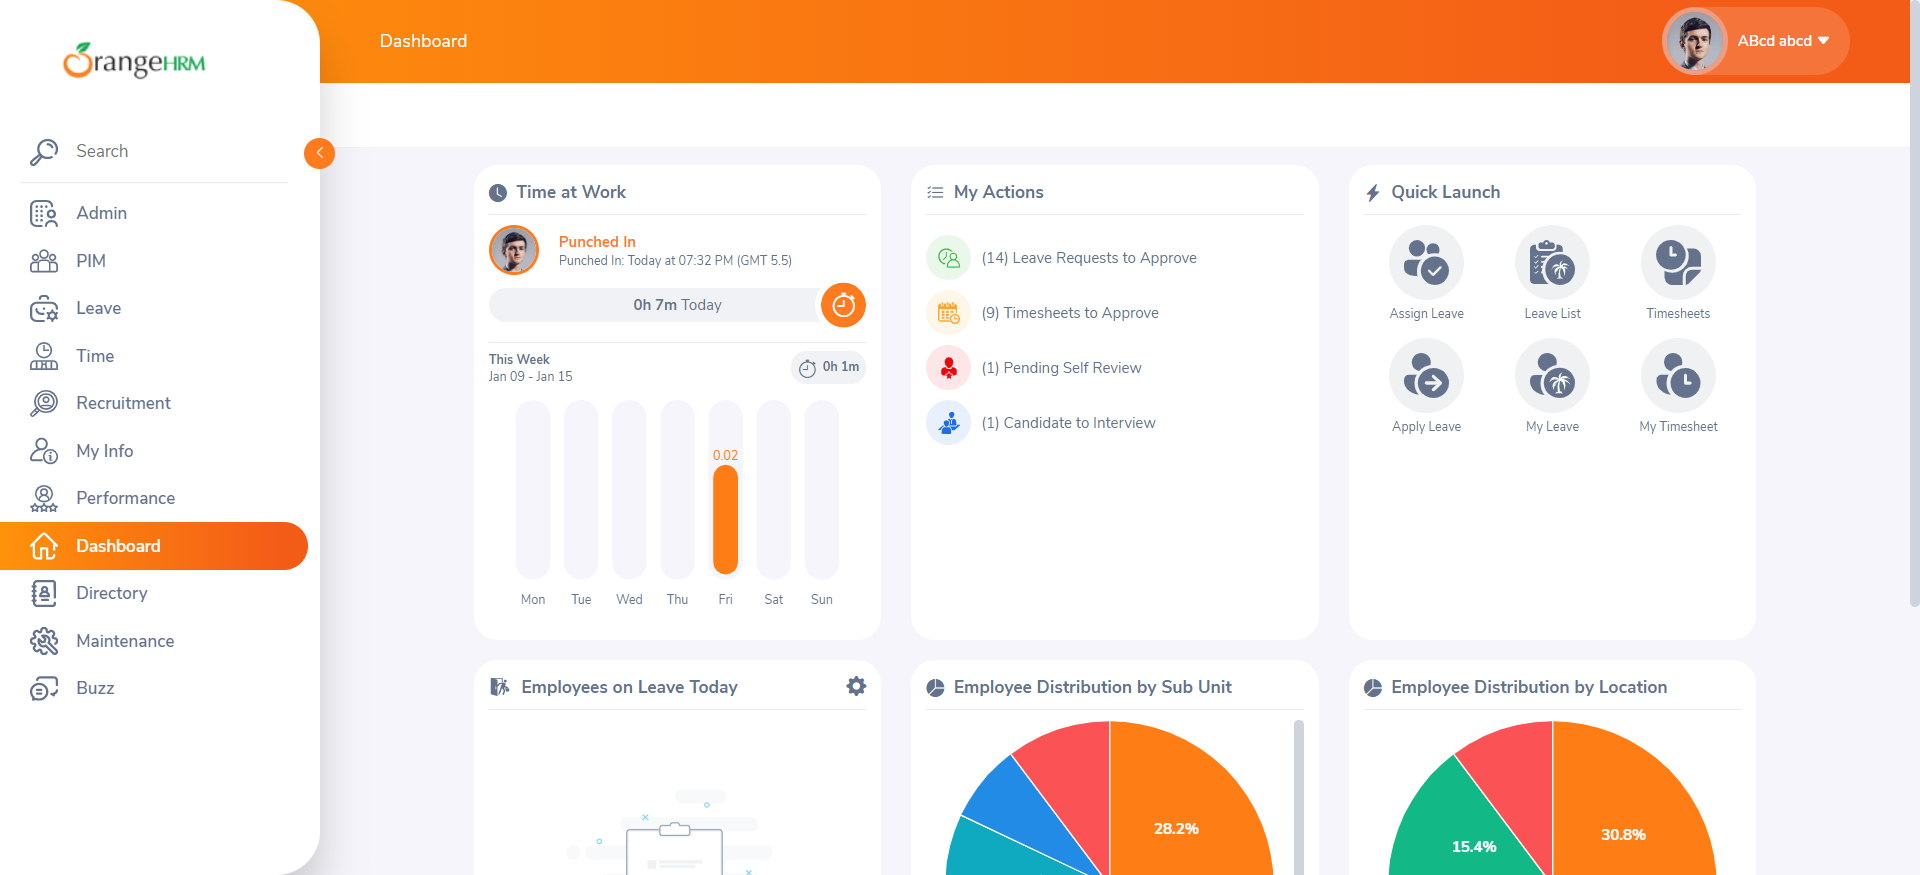
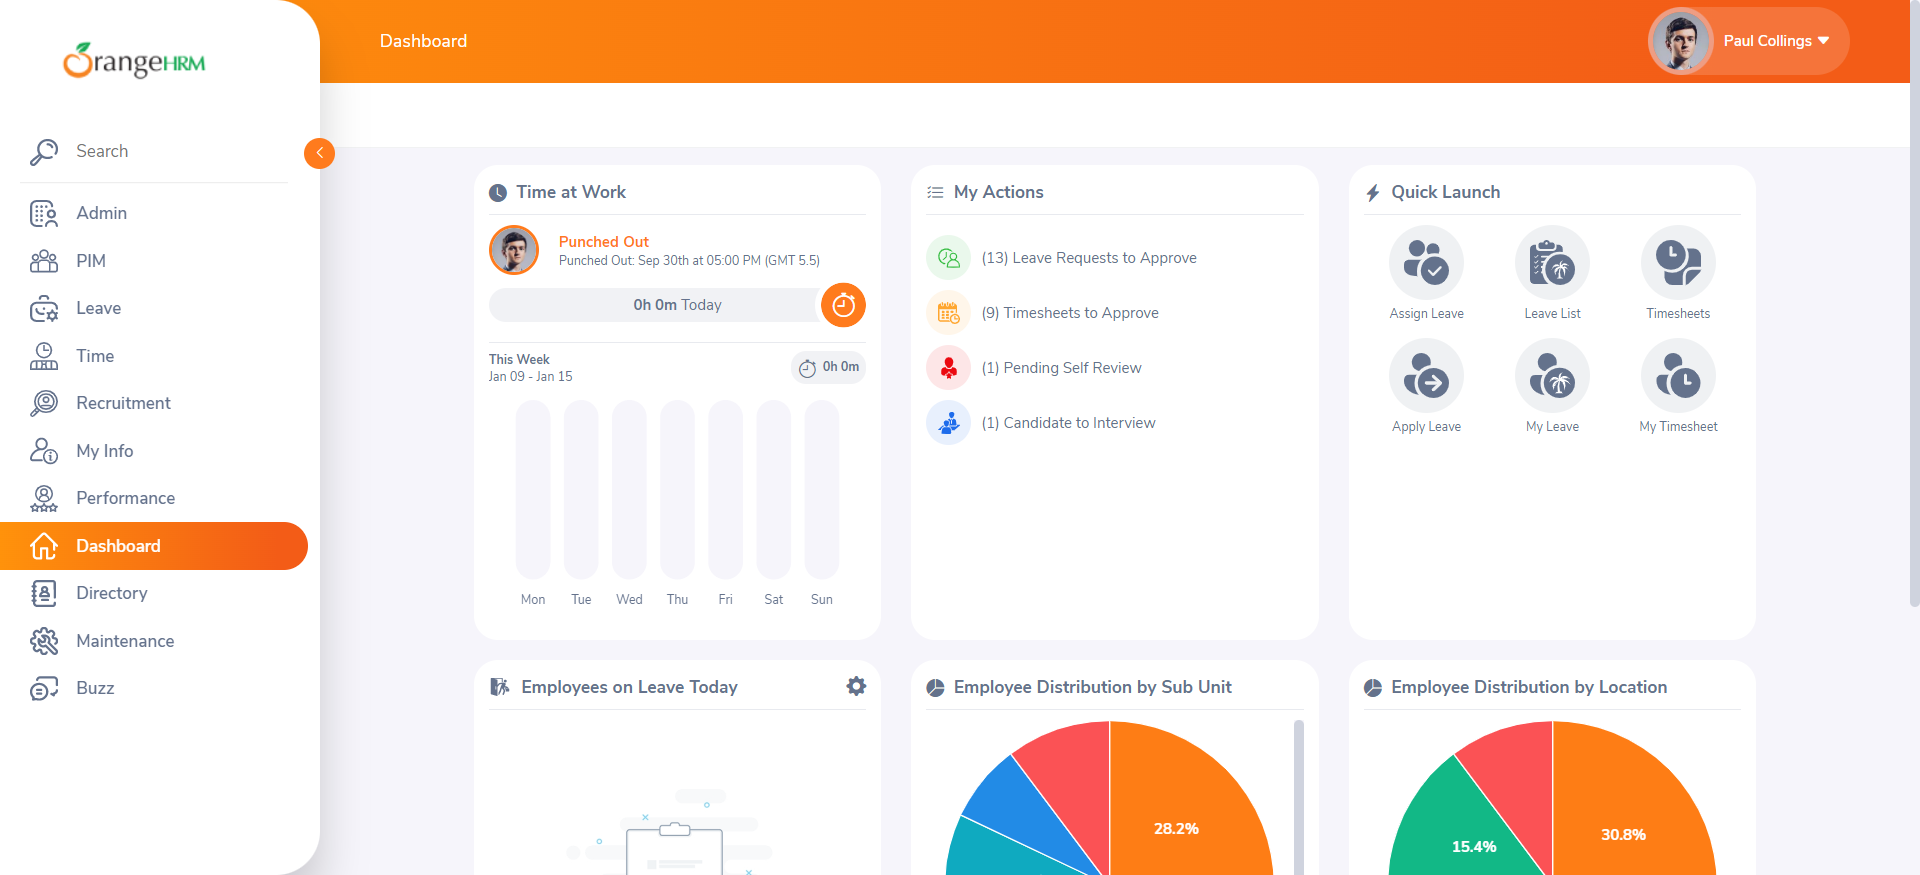
Fix problem java

Changed region(s): [[0.8438, 0.0, 0.9375, 0.0926], [0.3438, 0.5246, 0.4062, 0.648], [0.3125, 0.2777, 0.4375, 0.3086]]

diff --git a/target/extent-reports/ExtentReport.html b/target/extent-reports/ExtentReport.html
@@ -52,7 +52,7 @@
 		<ul id='nav-mobile' class='right hide-on-med-and-down nav-right'>
 			<li>
                 <a href='#!'>
-                    <span class='label suite-start-time blue darken-3'>Jan 13, 2023 03:30:12 PM</span>
+                    <span class='label suite-start-time blue darken-3'>Jan 15, 2023 03:22:28 PM</span>
 				</a>
 			</li>
 			<li>
@@ -189,7 +189,7 @@
 				<li class='test displayed active has-leaf pass' status='pass' bdd='true' test-id='1'>
 					<div class='test-heading'>
 						<span class='test-name'>Authentication - OrangeHRM</span>
-						<span class='test-time'>Jan 13, 2023 03:30:12 PM</span>
+						<span class='test-time'>Jan 15, 2023 03:22:28 PM</span>
 						<span class='test-status right pass'>pass</span>
 					</div>
 					<div class='test-content hide'>
@@ -197,7 +197,7 @@
 	<div class='category-list'>
 		<span class='category label white-text'>@cnx</span>
 	</div>
-	<span class='duration right label'>0h 0m 18s+797ms</span>
+	<span class='duration right label'>0h 0m 29s+893ms</span>
 	<div class='desc'>
 		<b>Scenario</b>
 		<span class="desc-text">Authentication - OrangeHRM</span>
@@ -239,7 +239,7 @@
 			
 			<b>Then</b>
 			
-			<span class="bdd-step-name">Then Je me redirige vers le compte admin "ABcd abcd"</span>
+			<span class="bdd-step-name">Then Je me redirige vers le compte admin "Paul"</span>
 				<div class='pre'>passed</div>
 			
 		</li>
@@ -322,7 +322,7 @@
 								</thead>
 								<tbody>
 									<tr>
-										<td>Jan 13, 2023 03:30:12 PM</td>
+										<td>Jan 15, 2023 03:22:28 PM</td>
 										<td class='linked' test-id='1'>Authentication - OrangeHRM</td>
 										<td><span class='test-status pass'>pass</span></td>
 									</tr>
@@ -356,7 +356,7 @@
 								</thead>
 								<tbody>
 									<tr>
-										<td>Jan 13, 2023 03:30:12 PM</td>
+										<td>Jan 15, 2023 03:22:28 PM</td>
 										<td class='linked' test-id='2'>Authentication - OrangeHRM.Authentication - OrangeHRM</td>
 										<td><span class='test-status pass'>pass</span></td>
 									</tr>
@@ -404,19 +404,19 @@
 			<div class='col s2'>
 				<div class='card-panel r'>
 					Start
-					<div class='panel-lead'>Jan 13, 2023 03:30:12 PM</div>
+					<div class='panel-lead'>Jan 15, 2023 03:22:28 PM</div>
 				</div>
 			</div>
 			<div class='col s2'>
 				<div class='card-panel r'>
 			 		End
-			 		<div class='panel-lead'>Jan 13, 2023 03:30:31 PM</div>
+			 		<div class='panel-lead'>Jan 15, 2023 03:22:58 PM</div>
 				</div>
 			</div>
 			<div class='col s2'>
 				<div class='card-panel r'>
 					Time Taken
-					<div class='panel-lead'>0h 0m 18s+966ms</div>
+					<div class='panel-lead'>0h 0m 30s+46ms</div>
 				</div>
 			</div>
 			<div class='col s6'>

diff --git a/target/cucumber-report/report.js b/target/cucumber-report/report.js
@@ -13,7 +13,7 @@ formatter.feature({
   ]
 });
 formatter.before({
-  "duration": 2222337500,
+  "duration": 2175249900,
   "status": "passed"
 });
 formatter.scenario({
@@ -52,14 +52,14 @@ formatter.step({
 });
 formatter.step({
   "line": 11,
-  "name": "Je me redirige vers le compte admin \"ABcd abcd\"",
+  "name": "Je me redirige vers le compte admin \"Paul\"",
   "keyword": "Then "
 });
 formatter.match({
   "location": "AuthenticationStepDefinitions.jeMeConnecteÀLApplicationOrangeHRM()"
 });
 formatter.result({
-  "duration": 11305072000,
+  "duration": 22416243600,
   "status": "passed"
 });
 formatter.match({
@@ -72,7 +72,7 @@ formatter.match({
   "location": "AuthenticationStepDefinitions.jeSaisieUsername(String)"
 });
 formatter.result({
-  "duration": 80611700,
+  "duration": 82047200,
   "status": "passed"
 });
 formatter.match({
@@ -85,31 +85,31 @@ formatter.match({
   "location": "AuthenticationStepDefinitions.jeSaisiePassword(String)"
 });
 formatter.result({
-  "duration": 73229100,
+  "duration": 82966300,
   "status": "passed"
 });
 formatter.match({
   "location": "AuthenticationStepDefinitions.jeCliqueSurLeBouttonLogin()"
 });
 formatter.result({
-  "duration": 35645600,
+  "duration": 38290600,
   "status": "passed"
 });
 formatter.match({
   "arguments": [
     {
-      "val": "ABcd abcd",
+      "val": "Paul",
       "offset": 37
     }
   ],
   "location": "AuthenticationStepDefinitions.jeMeRedirigeVersLeCompteAdmin(String)"
 });
 formatter.result({
-  "duration": 5025174300,
+  "duration": 5031350200,
   "status": "passed"
 });
 formatter.after({
-  "duration": 107000,
+  "duration": 146800,
   "status": "passed"
 });
 });

diff --git a/src/test/java/com/e2eTests/automatedTests/authentication/pageObjects/AuthenticationPage.java b/src/test/java/com/e2eTests/automatedTests/authentication/pageObjects/AuthenticationPage.java
@@ -24,7 +24,7 @@ public class AuthenticationPage extends BasePage {
 	final static String USER_NAME = "username";
 	final static String USER_PASSWORD = "password";
 	final static String BUTTON_LOGIN_ID = "//button[@type='submit']";
-	final static String USER_ADMIN ="//*[contains(text(),'ABcd abcd')]";
+	final static String USER_ADMIN ="//*[contains(text(),'Paul Collings')]";
 
 	@FindBy(how = How.NAME, using = USER_NAME)
 	public static WebElement userName;
